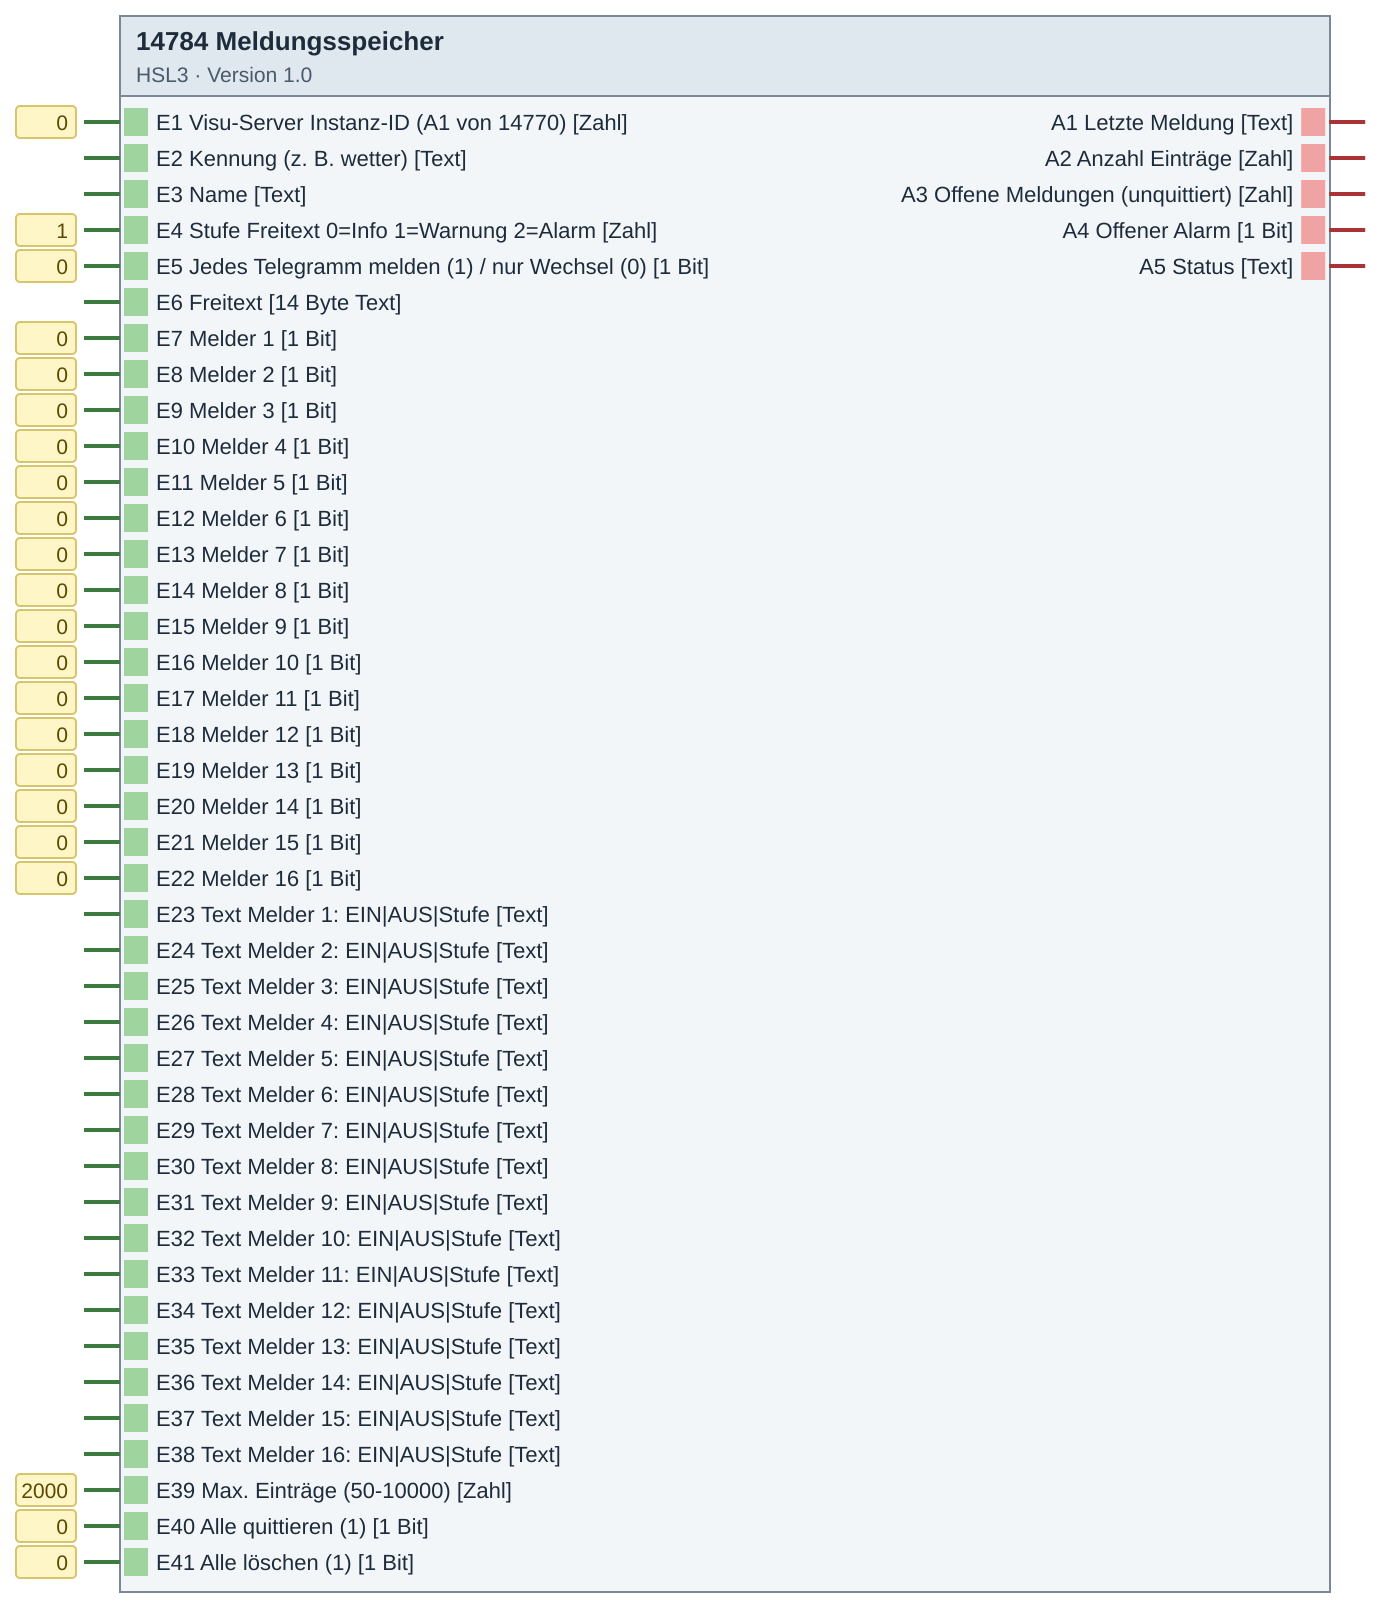
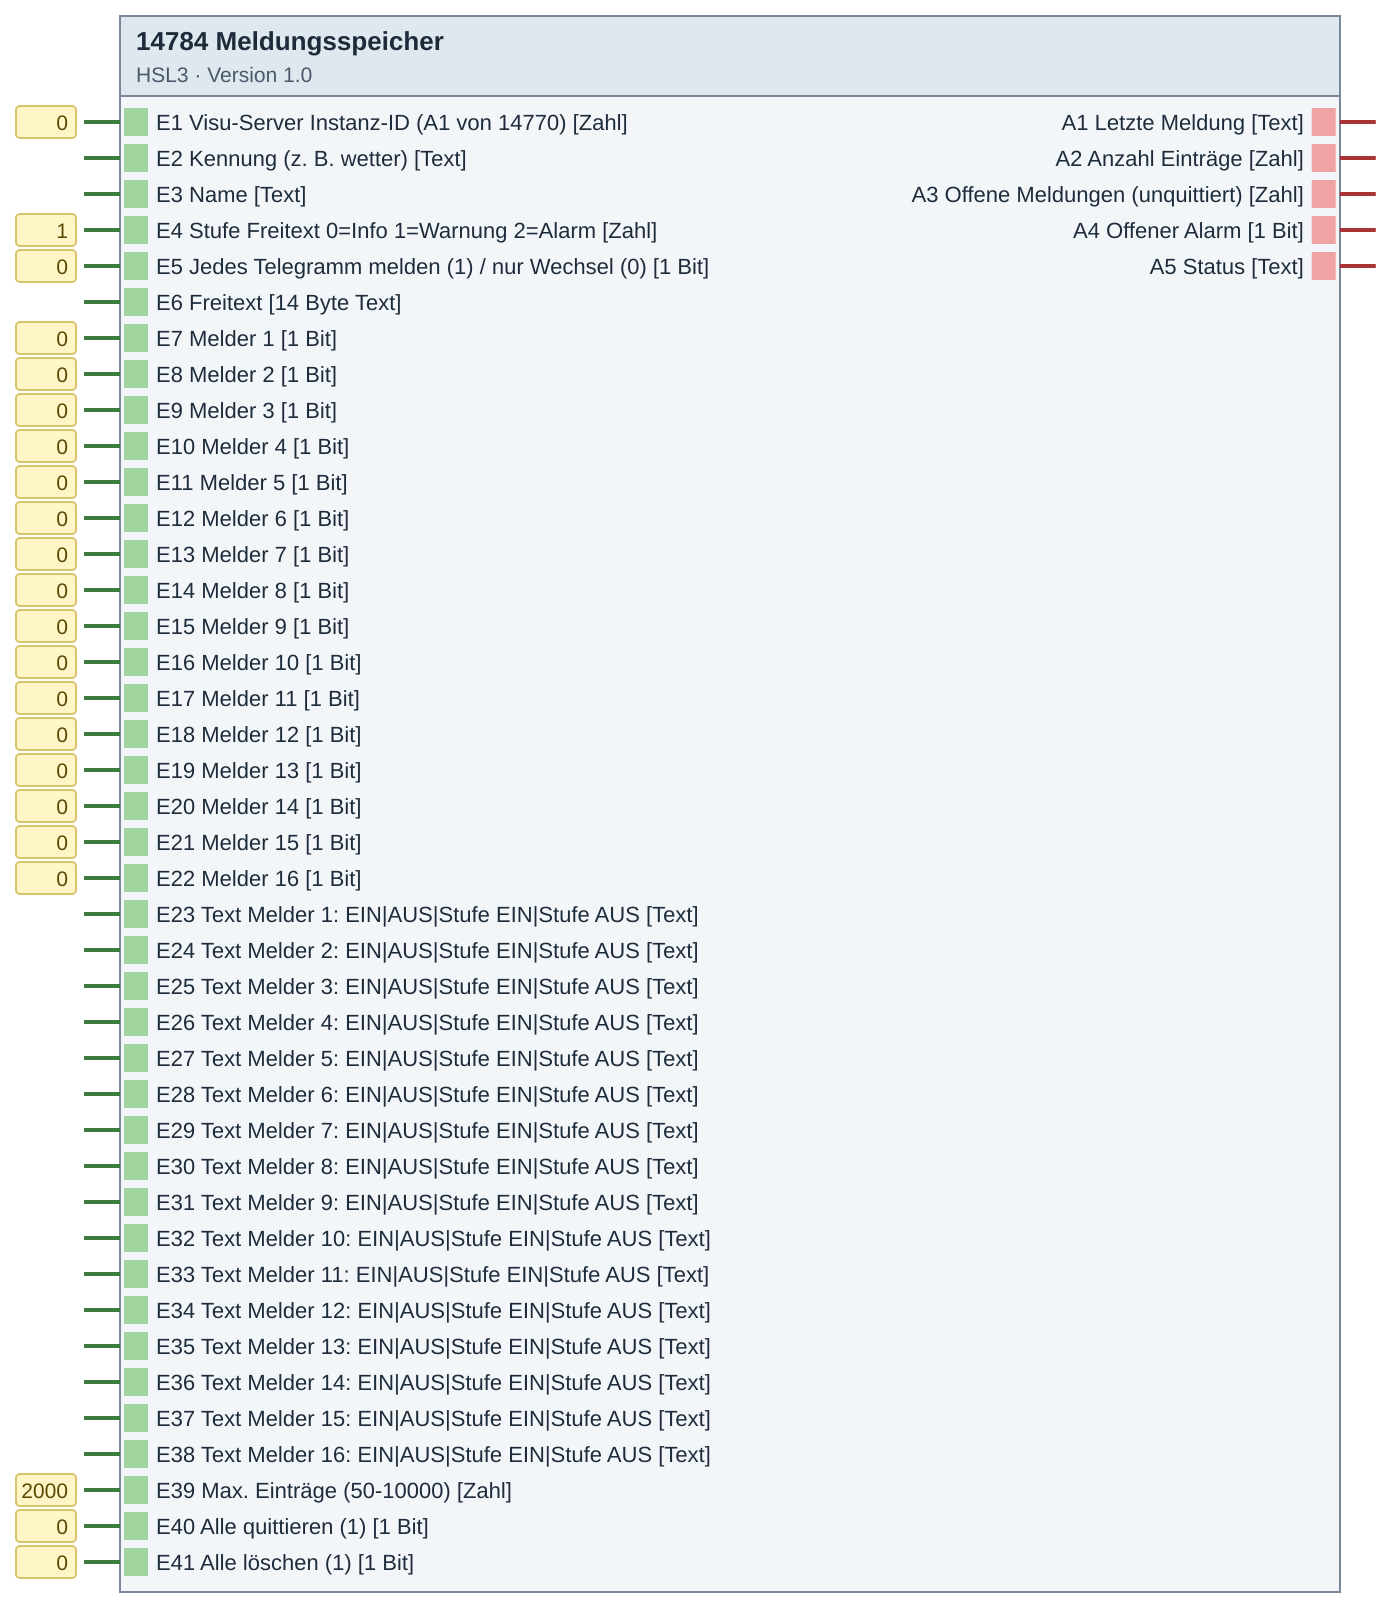
14784 1.0: Stufe für AUS-Meldung einstellbar (Text EIN|AUS|Stufe EIN|Stufe AUS)
Claude-Session: https://claude.ai/code/session_015jmhjqdUTxVBmG6Ggda9r4

diff --git a/14784_meldungsspeicher/Quellen/DE-log14784.html b/14784_meldungsspeicher/Quellen/DE-log14784.html
@@ -3,13 +3,14 @@
 <p><span class="b">Baustein-ID 14784</span><span class="b">Version 1.0</span><span class="b">HSL 3.0</span><span class="b">Kontext hsl3.visuserver</span></p>
 <p>Eigenes Meldungsarchiv im HomeServer – unabhängig von den Meldungsarchiven des Experten. Eine Instanz = ein Archiv (z. B. „Wetterstation“, „Alarmanlage“). Die Einträge bleiben nach Neustart und Projektübertragung erhalten (20 remanente Speichervariablen, komprimiert).</p>
 <h3>Melder</h3>
-<p>Bis zu 16 Melder (E7–E22). Zu jedem Melder ein Text (E23–E38) im Format <code>Text EIN|Text AUS|Stufe</code>:</p>
+<p>Bis zu 16 Melder (E7–E22). Zu jedem Melder ein Text (E23–E38) im Format <code>Text EIN|Text AUS|Stufe EIN|Stufe AUS</code>:</p>
 <table><tr><th>Text</th><th>Ergebnis</th></tr>
 <tr><td><code>Windalarm</code></td><td>„Windalarm – ein“ (Warnung) / „Windalarm – aus“ (Info)</td></tr>
 <tr><td><code>Frostalarm||2</code></td><td>nur EIN wird gemeldet, als Alarm</td></tr>
 <tr><td><code>|Spannung wieder da</code></td><td>nur AUS wird gemeldet</td></tr>
-<tr><td><code>Scharf|Unscharf|0</code></td><td>beides als Info</td></tr></table>
-<p>Stufe: 0 = Info, 1 = Warnung (Standard), 2 = Alarm. AUS-Meldungen werden immer als Info gespeichert. Gemeldet wird nur bei Wertwechsel (E5 = 1: jedes Telegramm). Jeder Wert ≠ 0 gilt als EIN. Werte beim Start werden gemerkt, aber nicht gemeldet.</p>
+<tr><td><code>Scharf|Unscharf|0</code></td><td>beides als Info</td></tr>
+<tr><td><code>Spannung ok|Spannung ausgefallen|0|2</code></td><td>EIN als Info, AUS als Alarm (für Melder, bei denen 0 = Fehler)</td></tr></table>
+<p>Stufe: 0 = Info, 1 = Warnung (Standard), 2 = Alarm. Ohne Angabe: EIN = Warnung, AUS = Info. Gemeldet wird nur bei Wertwechsel (E5 = 1: jedes Telegramm). Jeder Wert ≠ 0 gilt als EIN. Werte beim Start werden gemerkt, aber nicht gemeldet.</p>
 <p>E6 Freitext: jeder neue Text (z. B. 14-Byte-Text aus einer Logik) wird mit der Stufe aus E4 gespeichert.</p>
 <h3>Anzeige</h3>
 <p>E1 mit A1 des Visu-Servers <b>14770 ab v1.11</b> verbinden. Dann liefert der Visu-Server die Meldungen:</p>

diff --git a/14784_meldungsspeicher/Quellen/src/hsl3_14784_meldungsspeicher.py b/14784_meldungsspeicher/Quellen/src/hsl3_14784_meldungsspeicher.py
@@ -6,11 +6,12 @@ Eigenes Meldungsarchiv im HomeServer – unabhängig von den Meldungsarchiven de
 Eine Instanz = ein Archiv (z. B. „Wetterstation“, „Alarmanlage“).
 
 Melder 1–16 (E7–E22, 1 Bit/Zahl) mit Text je Melder (E23–E38):
-    "Text EIN|Text AUS|Stufe"
+    "Text EIN|Text AUS|Stufe EIN|Stufe AUS"
       - nur "Windalarm"            → „Windalarm – ein“ / „Windalarm – aus“, Stufe 1
       - "Alarm Tor 1|"             → nur EIN wird gemeldet (AUS leer = keine Meldung)
       - "|Netz ok"                 → nur AUS wird gemeldet
-      - "Scharf|Unscharf|0"        → Stufe 0 = Info, 1 = Warnung, 2 = Alarm
+      - "Scharf|Unscharf|0"        → Stufe 0 = Info, 1 = Warnung, 2 = Alarm (Standard EIN 1, AUS 0)
+      - "Spannung ok|Spannung ausgefallen|0|2" → AUS wird als Alarm gemeldet
     Gemeldet wird nur bei Wertwechsel (E5 = 1: jedes Telegramm). Werte ≠ 0 zählen als EIN.
 E6 Freitext (14-Byte-Text oder Text): jeder neue Text wird mit Stufe aus E4 gespeichert.
 
@@ -50,22 +51,22 @@ def unpack(chunks):
 
 
 def parse_text(spec, default_level=1):
-    """'Text EIN|Text AUS|Stufe' → (text_ein, text_aus, stufe). None = keine Meldung."""
+    """'Text EIN|Text AUS|Stufe EIN|Stufe AUS' → (text_ein, text_aus, stufe_ein, stufe_aus). None = keine Meldung."""
     spec = (spec or "").strip()
     if not spec:
-        return None, None, default_level
+        return None, None, default_level, 0
     parts = spec.split("|")
     if len(parts) == 1:
-        return spec + " – ein", spec + " – aus", default_level
+        return spec + " – ein", spec + " – aus", default_level, 0
     on = parts[0].strip() or None
     off = parts[1].strip() or None
-    lvl = default_level
-    if len(parts) > 2:
+
+    def lv(i, d):
         try:
-            lvl = max(0, min(2, int(parts[2].strip())))
+            return max(0, min(2, int(parts[i].strip()))) if len(parts) > i and parts[i].strip() else d
         except ValueError:
-            pass
-    return on, off, lvl
+            return d
+    return on, off, lv(2, default_level), lv(3, 0)
 
 
 class LogicModule:
@@ -82,7 +83,7 @@ class LogicModule:
         self.maxn = 2000
         self.every = 0
         self.free_level = 1
-        self.texts = [(None, None, 1)] * N_MELDER
+        self.texts = [(None, None, 1, 0)] * N_MELDER
         self._dirty = False
         self._pending_ack = False
         self._pending_import = None
@@ -141,10 +142,10 @@ class LogicModule:
             self.state["last"][k] = v
             if prev == v and not self.every:
                 continue
-            on, off, lvl = self.texts[i - 1]
+            on, off, lvl_on, lvl_off = self.texts[i - 1]
             text = on if v else off
             if text:
-                self._add(text, lvl if v else 0, i, v)
+                self._add(text, lvl_on if v else lvl_off, i, v)
             else:
                 self._dirty = True
 

diff --git a/14784_meldungsspeicher/README.md b/14784_meldungsspeicher/README.md
@@ -32,22 +32,22 @@ Eigenes Meldungsarchiv (z. B. Wetterstation, Alarmanlage) – 16 Melder mit Text
 - E20 Melder 14 [1 Bit]
 - E21 Melder 15 [1 Bit]
 - E22 Melder 16 [1 Bit]
-- E23 Text Melder 1: EIN|AUS|Stufe [Text]
-- E24 Text Melder 2: EIN|AUS|Stufe [Text]
-- E25 Text Melder 3: EIN|AUS|Stufe [Text]
-- E26 Text Melder 4: EIN|AUS|Stufe [Text]
-- E27 Text Melder 5: EIN|AUS|Stufe [Text]
-- E28 Text Melder 6: EIN|AUS|Stufe [Text]
-- E29 Text Melder 7: EIN|AUS|Stufe [Text]
-- E30 Text Melder 8: EIN|AUS|Stufe [Text]
-- E31 Text Melder 9: EIN|AUS|Stufe [Text]
-- E32 Text Melder 10: EIN|AUS|Stufe [Text]
-- E33 Text Melder 11: EIN|AUS|Stufe [Text]
-- E34 Text Melder 12: EIN|AUS|Stufe [Text]
-- E35 Text Melder 13: EIN|AUS|Stufe [Text]
-- E36 Text Melder 14: EIN|AUS|Stufe [Text]
-- E37 Text Melder 15: EIN|AUS|Stufe [Text]
-- E38 Text Melder 16: EIN|AUS|Stufe [Text]
+- E23 Text Melder 1: EIN|AUS|Stufe EIN|Stufe AUS [Text]
+- E24 Text Melder 2: EIN|AUS|Stufe EIN|Stufe AUS [Text]
+- E25 Text Melder 3: EIN|AUS|Stufe EIN|Stufe AUS [Text]
+- E26 Text Melder 4: EIN|AUS|Stufe EIN|Stufe AUS [Text]
+- E27 Text Melder 5: EIN|AUS|Stufe EIN|Stufe AUS [Text]
+- E28 Text Melder 6: EIN|AUS|Stufe EIN|Stufe AUS [Text]
+- E29 Text Melder 7: EIN|AUS|Stufe EIN|Stufe AUS [Text]
+- E30 Text Melder 8: EIN|AUS|Stufe EIN|Stufe AUS [Text]
+- E31 Text Melder 9: EIN|AUS|Stufe EIN|Stufe AUS [Text]
+- E32 Text Melder 10: EIN|AUS|Stufe EIN|Stufe AUS [Text]
+- E33 Text Melder 11: EIN|AUS|Stufe EIN|Stufe AUS [Text]
+- E34 Text Melder 12: EIN|AUS|Stufe EIN|Stufe AUS [Text]
+- E35 Text Melder 13: EIN|AUS|Stufe EIN|Stufe AUS [Text]
+- E36 Text Melder 14: EIN|AUS|Stufe EIN|Stufe AUS [Text]
+- E37 Text Melder 15: EIN|AUS|Stufe EIN|Stufe AUS [Text]
+- E38 Text Melder 16: EIN|AUS|Stufe EIN|Stufe AUS [Text]
 - E39 Max. Einträge (50-10000) [Zahl]
 - E40 Alle quittieren (1) [1 Bit]
 - E41 Alle löschen (1) [1 Bit]
